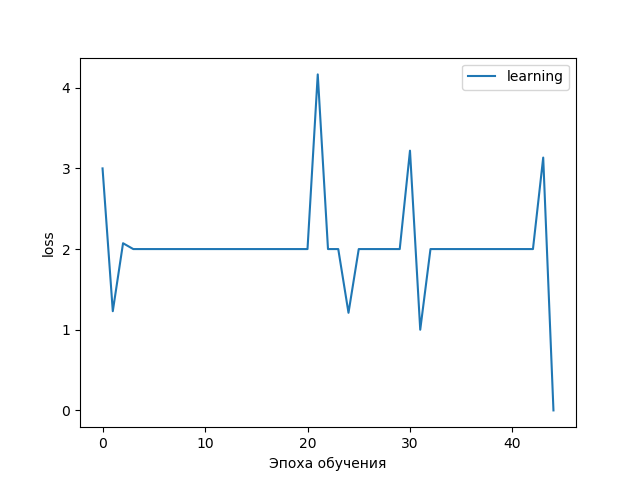
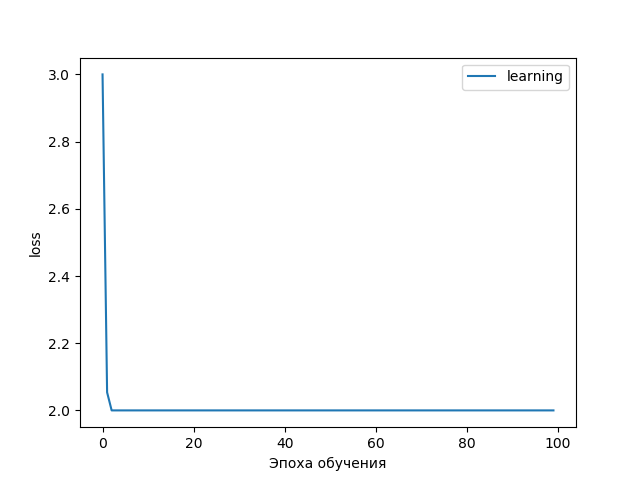
backprop_with_bc_attempt

diff --git a/brainy/net_con_.py b/brainy/net_con_.py
@@ -3,7 +3,7 @@ import numpy as np
 import matplotlib.pyplot as plt
 import math
 import random
-from .serial_deserial import to_file, deserialization
+#from .serial_deserial import to_file, deserialization
 import sys
 
 
@@ -33,7 +33,6 @@ NOOP = 0
 ACC_GRAD = 1
 APPLY_GRAD = 2
 DENSE = 3
-
 
 
 class Dense:
@@ -66,8 +65,10 @@ class NetCon:
             self.net_dense[l_ind] = Dense()
         self.sp_d = -1  # алокатор для слоев
         self.nl_count = 0  # количество слоев
-        self.b_c=[]
-        self.ip=0
+        self.b_c_forward = []
+        self.b_c_bacward_tmp = []
+        self.b_c_bacward = None
+        self.ip = 0
         self.ready = False
 
     def make_hidden(self, layer, inputs: list):
@@ -84,33 +85,6 @@ class NetCon:
 
     def get_hidden(self, objLay: Dense):
         return objLay.hidden
-
-    def feed_forwarding(self, inputs):
-        while self.ip < len(self.b_c):
-            op = self.b_c[self.ip]
-            if op == DENSE:
-                self.ip+=1
-                arg = self.b_c[self.ip]
-                if arg == 0:
-                   layer = self.net_dense[0] 
-                   self.make_hidden(layer, inputs)
-                else:
-                    layer = self.net_dense[arg]
-                    layer_prev = self.net_dense[arg - 1]
-                    self.make_hidden(layer, self.get_hidden(layer_prev))    
-            self.ip+=1     
-
-        """ j = self.nl_count
-        for i in range(1, j):
-            inputs = self.get_hidden(self.net_de[i - 1])
-            self.make_hidden(i, inputs)
-        """
-        self.ip=0 # сбрасываем ip так прямое распространение будет в цикле
-        
-        j = self.nl_count 
-        last_layer = self.net_dense[j-1] 
-
-        return self.get_hidden(last_layer)
 
     def cr_dense(self,   in_=0, out_=0, act_func=None, with_bias=False, init_w=INIT_W_RANDOM):
         self.sp_d += 1
@@ -132,8 +106,12 @@ class NetCon:
                 layer.biases[row] = self.operations(
                     init_w, 0)
 
-        self.b_c.append(DENSE)
-        self.b_c.append(self.sp_d)            
+        # просто байткод для прямого распространения - стек
+        self.b_c_forward.append(DENSE)
+        # байткод будет очередь для обратного распространения
+        self.b_c_bacward_tmp.append(self.sp_d)
+        self.b_c_forward.append(self.sp_d)
+        self.b_c_bacward_tmp.append(DENSE)
         self.nl_count += 1
 
     # Различные операции по числовому коду
@@ -213,17 +191,24 @@ class NetCon:
         else:
             print("Op or function does not support ", op)
 
-    def calc_out_error(self,  targets):
-        layer = self.net_dense[self.nl_count-1]
+    def get_b_c_bacward(self):
+        len_b_c_bacward = len(self.b_c_bacward_tmp)
+        self.b_c_bacward = [0]* len_b_c_bacward
+        for i in range(len_b_c_bacward):
+            # из очереди в байткод
+            self.b_c_bacward[i] = self.b_c_bacward_tmp.pop()
+
+    def calc_out_error(self, layer, targets):
+        # layer = self.net_dense[self.nl_count-1]
         out_ = layer.out_
         for row in range(out_):
             layer.errors[row] =\
                 (layer.hidden[row] - targets[row]) * self.operations(
                 layer.act_func + 1, layer.hidden[row])
 
-    def calc_hid_error(self,  layer_ind):
-        layer = self.net_dense[layer_ind]
-        layer_next = self.net_dense[layer_ind + 1]
+    def calc_hid_error(self, layer, layer_next):
+        # layer = self.net_dense[layer_ind]
+        # layer_next = self.net_dense[layer_ind + 1]
         for elem in range(layer_next.in_):
             summ = 0
             for row in range(layer_next.out_):
@@ -232,15 +217,15 @@ class NetCon:
             layer.errors[elem] = summ * self.operations(
                 layer.act_func + 1, layer.hidden[elem])
 
-    def upd_matrix(self, layer_ind, errors, inputs, lr):
-        layer = self.net_dense[layer_ind]
+    def upd_matrix(self, layer, errors, inputs, lr):
+        # layer = self.net_dense[layer_ind]
         for elem in range(layer.in_):
             for row in range(layer.out_):
                 error = errors[row]
                 layer.matrix[row][elem] -= lr * \
                     error * inputs[elem]
                 if layer.with_bias:
-                   layer.biases[row] -= error * 1
+                    layer.biases[row] -= error * 1
 
     def calc_diff(self, out_nn, teacher_answ):
         diff = [0] * len(out_nn)
@@ -254,8 +239,31 @@ class NetCon:
             sum += diff[row] * diff[row]
         return sum
 
-    def backpropagate(self, y, x, l_r):
+    def feed_forwarding(self, inputs):
+        len_b_c_forward = len(self.b_c_forward)
+        while self.ip < len_b_c_forward:
+            op = self.b_c_forward[self.ip]
+            if op == DENSE:
+                self.ip += 1
+                arg = self.b_c_forward[self.ip]
+                if arg == 0:
+                    layer = self.net_dense[0]
+                    self.make_hidden(layer, inputs)
+                else:
+                    layer = self.net_dense[arg]
+                    layer_prev = self.net_dense[arg - 1]
+                    self.make_hidden(layer, self.get_hidden(layer_prev))
+            self.ip += 1
+
+        self.ip = 0  # сбрасываем ip так прямое распространение будет в цикле
+
         j = self.nl_count
+        last_layer = self.net_dense[j-1]
+
+        return self.get_hidden(last_layer)
+
+    def backpropagate(self, y, x, l_r):
+        """ j = self.nl_count
         for i in range(j - 1, -1, - 1):
             if i == j - 1:
                 self.calc_out_error(y)
@@ -268,7 +276,46 @@ class NetCon:
             self.upd_matrix(i, layer.errors, layer_prev.hidden, l_r)
 
         self.upd_matrix(0, self.net_dense[0].errors,
-                        x, l_r)
+                        x, l_r) """
+
+        len_b_c_bacward = len(self.b_c_bacward)
+
+        while self.ip < len_b_c_bacward:
+            op = self.b_c_bacward[self.ip]
+            if op == DENSE:
+                self.ip += 1
+                arg = self.b_c_bacward[self.ip]
+                if arg == self.nl_count-1:
+                    layer = self.net_dense[arg]
+                    layer_prev = self.net_dense[arg - 1]
+                    self.calc_out_error(layer, y)
+                    self.upd_matrix(layer, layer.errors,
+                                   layer_prev.hidden, l_r)
+                elif arg == 0:
+                    print('op2')
+                    layer = self.net_dense[0]
+                    layer_next = self.net_dense[arg + 1]
+                    self.calc_hid_error(layer, layer_next)
+                    self.upd_matrix(layer, layer.errors,
+                                    x, l_r)
+                else:
+                    layer = self.net_dense[arg]
+                    layer_next = self.net_dense[arg + 1]
+                    layer_prev = self.net_dense[arg - 1]
+                    self.calc_hid_error(layer, layer_next)
+                    self.upd_matrix(layer, layer.errors,
+                                   layer_prev.hidden, l_r)
+                """ j = self.nl_count      
+                for i in range(j - 1, 0, - 1):
+                  layer = self.net_dense[i]
+                  layer_prev = self.net_dense[i - 1]
+                  self.upd_matrix(layer, layer.errors, layer_prev.hidden, l_r)
+
+                self.upd_matrix(self.net_dense[0], self.net_dense[0].errors,
+                        x, l_r)    """   
+            self.ip += 1
+
+        self.ip = 0  # сбрасываем ip так обратное распространение будет в цикле
 
     def answer_nn_direct(self, inputs):
         out_nn = self.feed_forwarding(inputs)
@@ -337,17 +384,18 @@ class NetCon:
         plt.show()
 
     def __str__(self):
-        return str(self.b_c)    
+        return "bc"+str(self.b_c_forward)+"rev b_c"+str(self.b_c_bacward)
 #############################################
 
 
-train_inp = ((1, 1), (0, 0), (0, 1), (1, 0))  # Логическое И
-train_out = ([1], [0], [0], [0])
-
-if __name__ == '__main__()':
+if __name__ == '__main__':
 
     def main():
-        epochs = 1000
+
+        train_inp = ((1, 1), (0, 0), (0, 1), (1, 0))  # Логическое И
+        train_out = ([1], [0], [0], [0])
+
+        epochs = 100
         l_r = 0.1
 
         errors_y = []
@@ -357,8 +405,10 @@ if __name__ == '__main__()':
 
         net = NetCon()
         # Создаем слои
-        net.cr_lay(2, 3, PIECE_WISE_LINEAR, True, INIT_W_MY)
-        net.cr_lay(3, 1, PIECE_WISE_LINEAR, True, INIT_W_MY)
+        net.cr_dense(2, 3, PIECE_WISE_LINEAR, True, INIT_W_MY)
+        net.cr_dense(3, 1, PIECE_WISE_LINEAR, True, INIT_W_MY)
+        net.get_b_c_bacward()
+        print('net', net)
 
         for ep in range(epochs):  # Кол-во повторений для обучения
             gl_e = 0
@@ -374,7 +424,7 @@ if __name__ == '__main__()':
                 net.backpropagate(train_out[single_array_ind],
                                   train_inp[single_array_ind], l_r)
 
-            # gl_e /= 2
+            #gl_e /= 2
             print("error", gl_e)
             print("ep", ep)
             print()
@@ -385,37 +435,9 @@ if __name__ == '__main__()':
             if gl_e == 0:
                 break
 
-        plot_gr('gr.png', errors_y, epochs_x)
+        net.plot_gr('gr.png', errors_y, epochs_x)
+        acc = net.evaluate(train_inp, train_out)
+        print('acc', acc)
 
-        # пост оценка - evaluate()
-        for single_array_ind in range(len(train_inp)):
-            inputs = train_inp[single_array_ind]
-
-            output_2_layer = net.feed_forwarding(inputs)
-
-            equal_flag = 0
-            out_net = net.net[1].out_
-            for row in range(out_net):
-                elem_net = output_2_layer[row]
-                elem_train_out = train_out[single_array_ind][row]
-                if elem_net > 0.5:
-                    elem_net = 1
-                else:
-                    elem_net = 0
-                print("elem:", elem_net)
-                print("elem tr out:", elem_train_out)
-                if elem_net == elem_train_out:
-                    equal_flag = 1
-                else:
-                    equal_flag = 0
-                    break
-            if equal_flag == 1:
-                print('-vecs are equal-')
-            else:
-                print('-vecs are not equal-')
-
-            print("========")
-
-        # to_file(nn_params, nn_params.net, loger, 'wei1.my')
 
     main()
